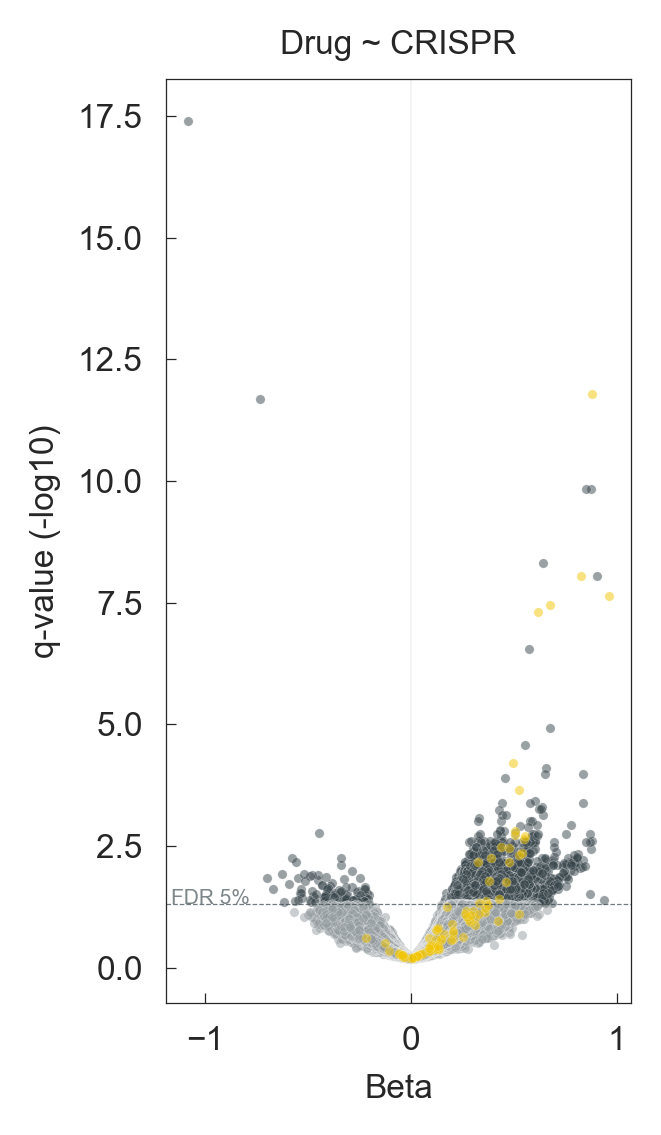
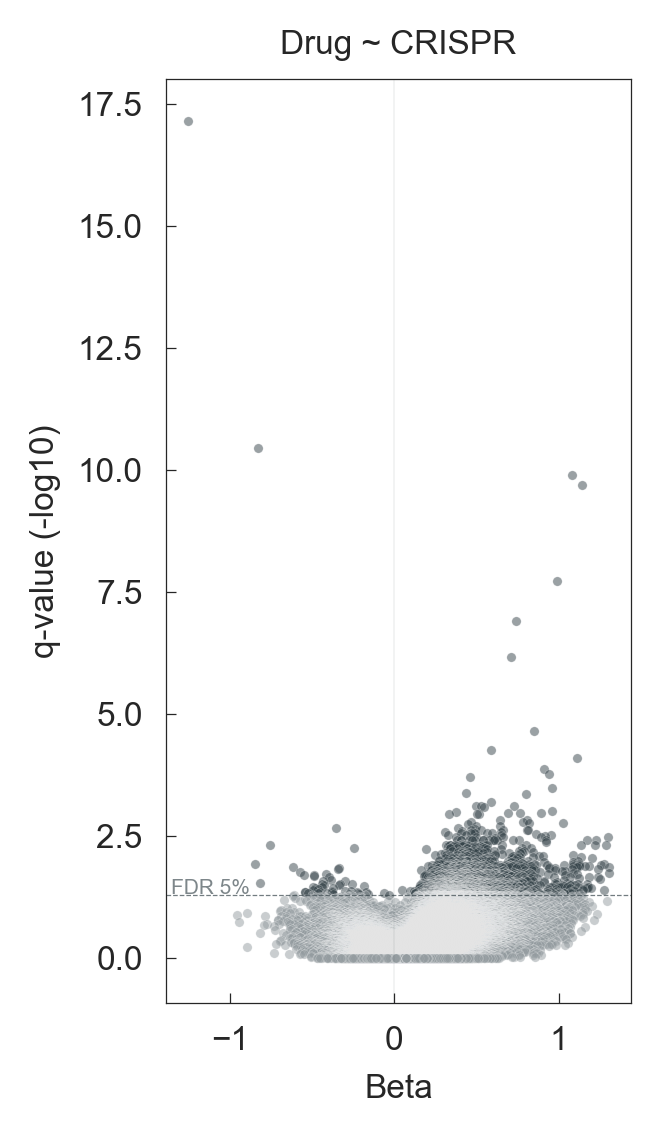
Linear regressions r2 added for full model. Input data standardized.

diff --git a/scripts/drug/lm_drug_crispr.py b/scripts/drug/lm_drug_crispr.py
@@ -2,9 +2,11 @@
 # Copyright (C) 2018 Emanuel Goncalves
 
 import time
+import numpy as np
 import pandas as pd
 from scipy.stats import iqr
 from crispy.regression.linear import lr
+from sklearn.preprocessing import StandardScaler
 from statsmodels.stats.multitest import multipletests
 
 # - Imports
@@ -13,6 +15,7 @@ essential = list(pd.read_csv('data/resources/curated_BAGEL_essential.csv', sep='
 
 # CRISPR
 crispr = pd.read_csv('data/gdsc/crispr/crisprcleanr_gene.csv', index_col=0).dropna()
+crispr = crispr.subtract(crispr.mean()).divide(crispr.std())
 
 # Drug response
 d_response = pd.read_csv('data/gdsc/drug_single/drug_ic50_merged_matrix.csv', index_col=[0, 1, 2], header=[0, 1])
@@ -48,9 +51,14 @@ crispr = crispr[(crispr.abs() >= 2).sum(1) >= 5]
 # - lmm: drug ~ crispr + tissue
 print('CRISPR genes: %d, Drug: %d' % (len(set(crispr.index)), len(set(d_response.index))))
 
+# Build matricies
 xs, ys = crispr[samples].T, d_response[samples].T
 ws = pd.concat([pd.get_dummies(ss[['Cancer Type']]), growth['NC1_ratio_mean']], axis=1).loc[samples]
 
+# Standardize xs
+xs = pd.DataFrame(StandardScaler().fit_transform(xs), index=xs.index, columns=xs.columns)
+
+# Linear regression
 time_start = time.time()
 
 lm_res = lr(xs, ys, ws)
@@ -59,7 +67,7 @@ time_elapsed = time.time() - time_start
 
 time_per_run = time_elapsed / (xs.shape[1] * ys.shape[1])
 
-print(time_per_run)
+print('Total run time: %.5f; Time per run: %.5f' % (time_elapsed, time_per_run))
 print('Total run time (0.5M tests): %.2f mins' % (time_per_run * 5e5 / 60))
 
 
@@ -70,4 +78,3 @@ lm_res_df = lm_res_df.assign(lr_fdr=multipletests(lm_res_df['lr_pval'], method='
 
 lm_res_df.sort_values('lr_fdr').to_csv('data/drug/lm_drug_crispr.csv', index=False)
 print(lm_res_df.sort_values('lr_fdr'))
-

diff --git a/scripts/drug/lm_drug_crispr_plot.py b/scripts/drug/lm_drug_crispr_plot.py
@@ -6,6 +6,7 @@ import numpy as np
 import pandas as pd
 import seaborn as sns
 import matplotlib.pyplot as plt
+from limix.plot import qqplot
 from crispy import bipal_dbgd
 from scipy.stats import pearsonr, iqr, uniform
 
@@ -82,11 +83,6 @@ for i in ['*', '-']:
         edgecolor='white', lw=.1, s=5, alpha=.5, c=pal[i]
     )
 
-plt.scatter(
-    plot_df.query('target == 0')['beta'], plot_df.query('target == 0')['log10_qvalue'],
-    edgecolor='white', lw=.1, s=5, alpha=.5, c=bipal_dbgd[1]
-)
-
 # Add FDR threshold lines
 plt.text(plt.xlim()[0]*.98, -np.log10(.05) * 1.01, 'FDR 5%', ha='left', color=pal['*'], alpha=0.65, fontsize=5)
 plt.axhline(-np.log10(.05), c=pal['*'], ls='--', lw=.3, alpha=.7)
@@ -141,7 +137,7 @@ plt.close('all')
 
 
 # - Corrplot
-idx = 16
+idx = 1
 
 d_id, d_name, d_screen, gene = lm_df.loc[idx, ['DRUG_ID', 'DRUG_NAME', 'VERSION', 'GENES']].values
 
